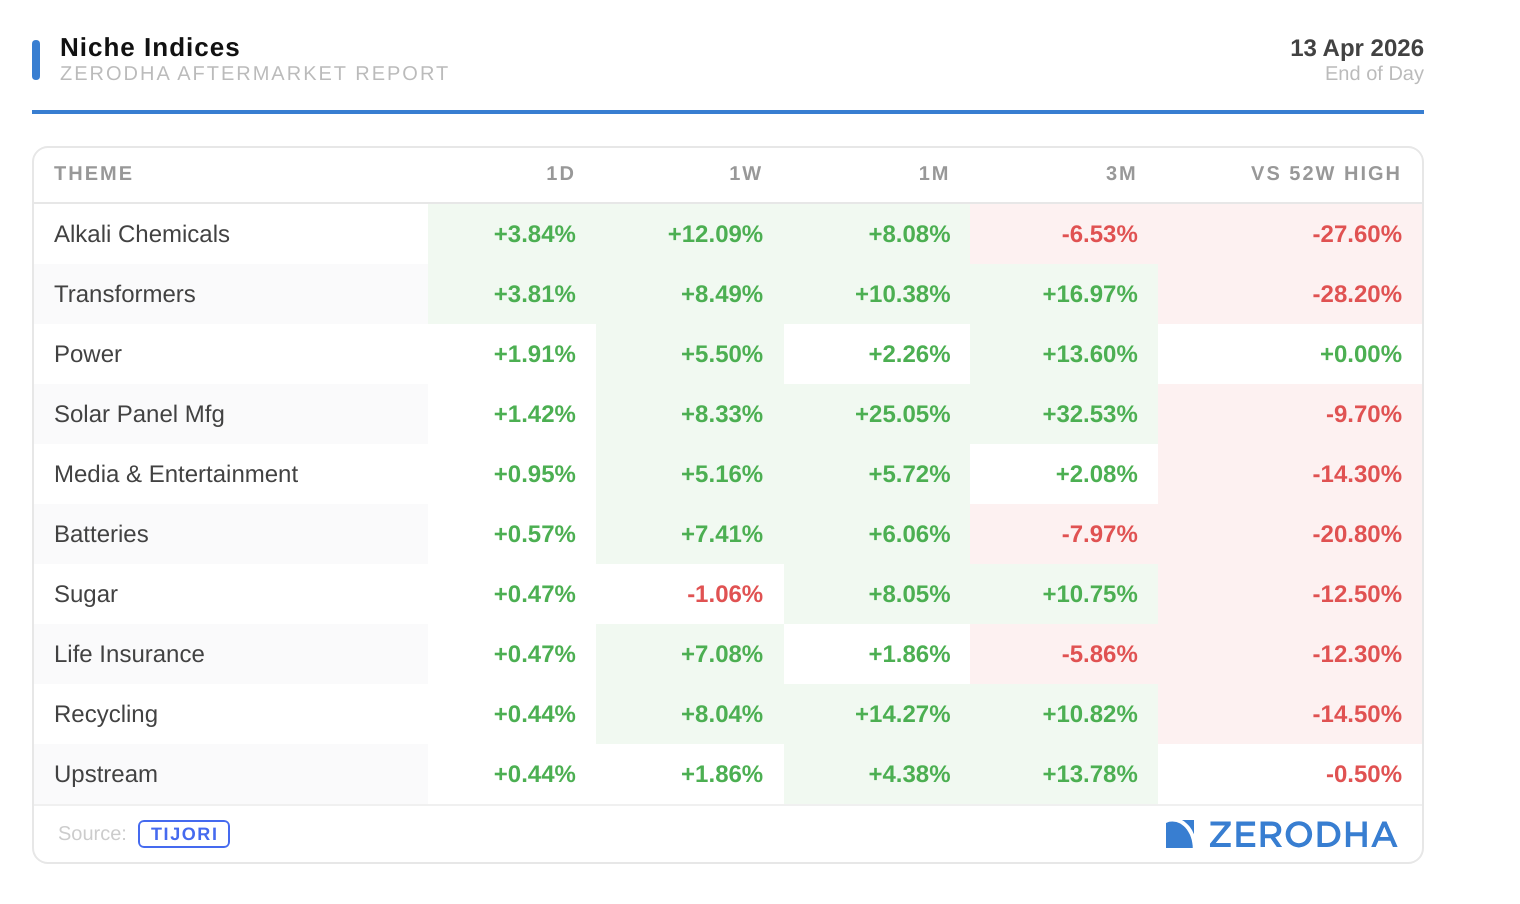
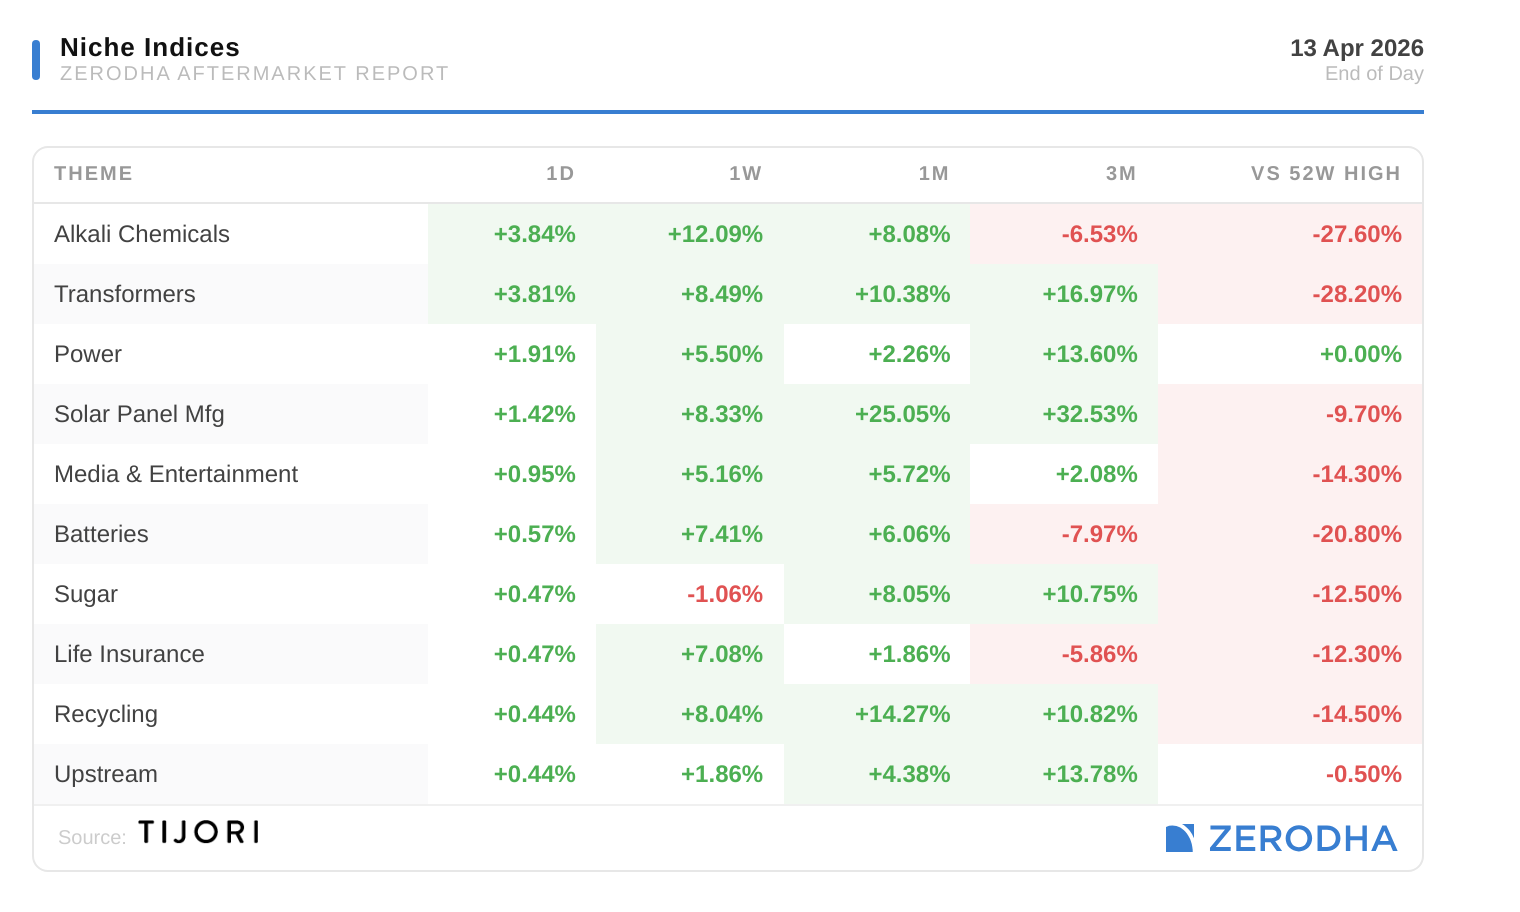
Newsletter: 2026-04-13

diff --git a/index.html b/index.html
@@ -1023,8 +1023,7 @@
     </table>
     <div style="padding:7px 12px;border-top:1px solid #F0F0F0;display:flex;align-items:center;justify-content:space-between;">
       <span style="display:flex;align-items:center;gap:6px;font-size:10px;color:#CCCCCC;">
-        Source:
-        <span style="font-size:9px;font-weight:800;color:#456aef;letter-spacing:0.8px;text-transform:uppercase;border:1.5px solid #456aef;border-radius:3px;padding:1px 5px;">TIJORI</span>
[1 lines of base64/hex data omitted]
       </span>
       <svg height="14" viewBox="0 0 1523.45 184.15" xmlns="http://www.w3.org/2000/svg" style="display:inline-block;vertical-align:middle">
   <path d="m1422.95,9.49h27.14l73.36,167.89h-30.98l-16.9-40.25h-78.85l-17.17,40.25h-30.02l73.42-167.89Zm41.91,101.67l-28.79-66.7-28.58,66.7h57.37Z" fill="#387ED1"/>
